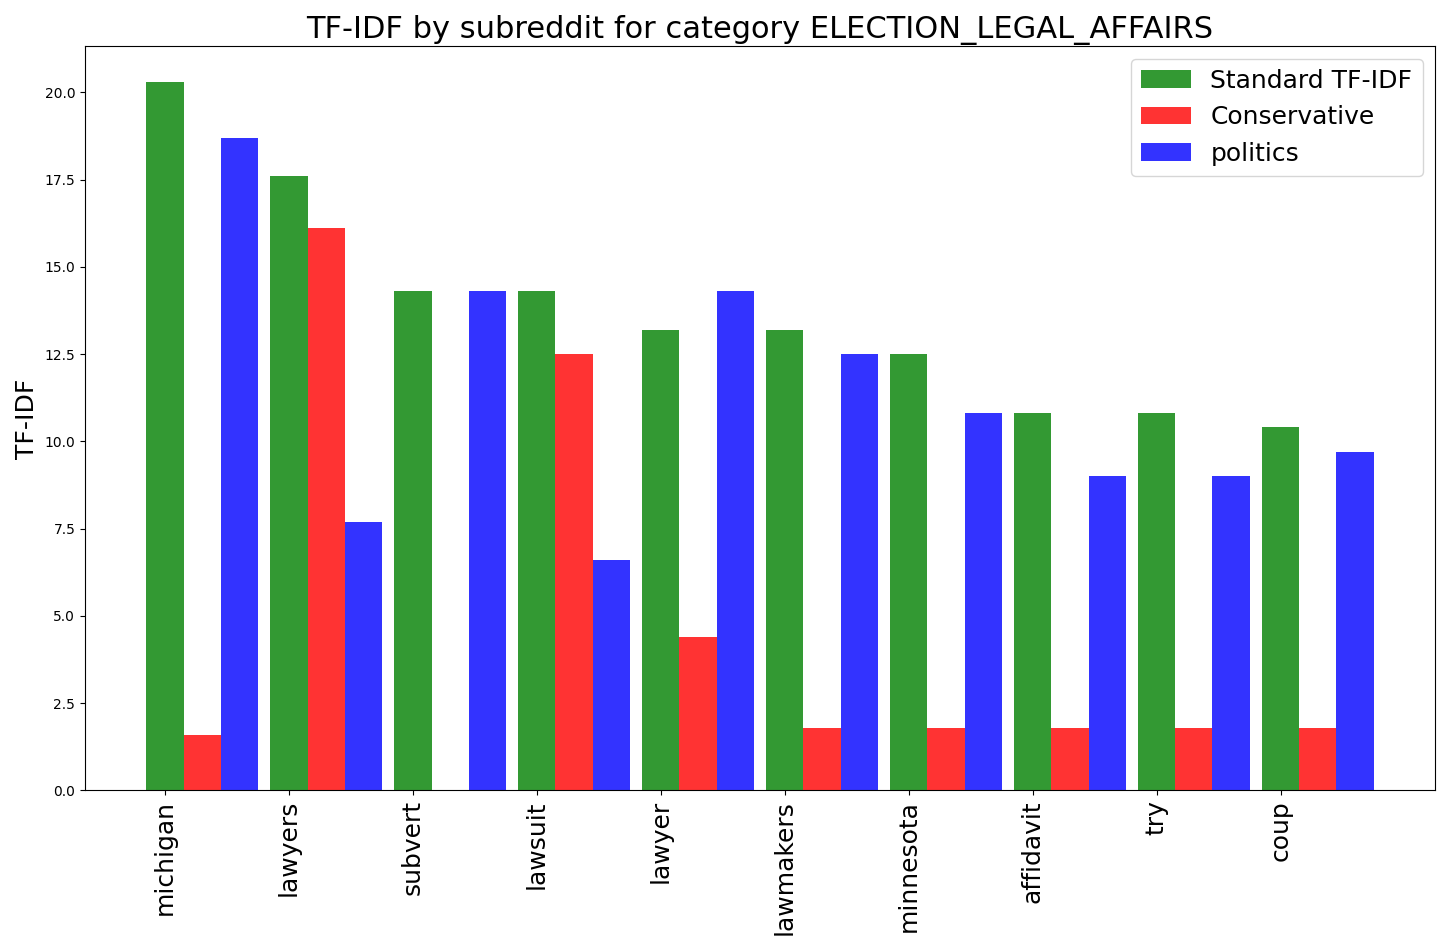
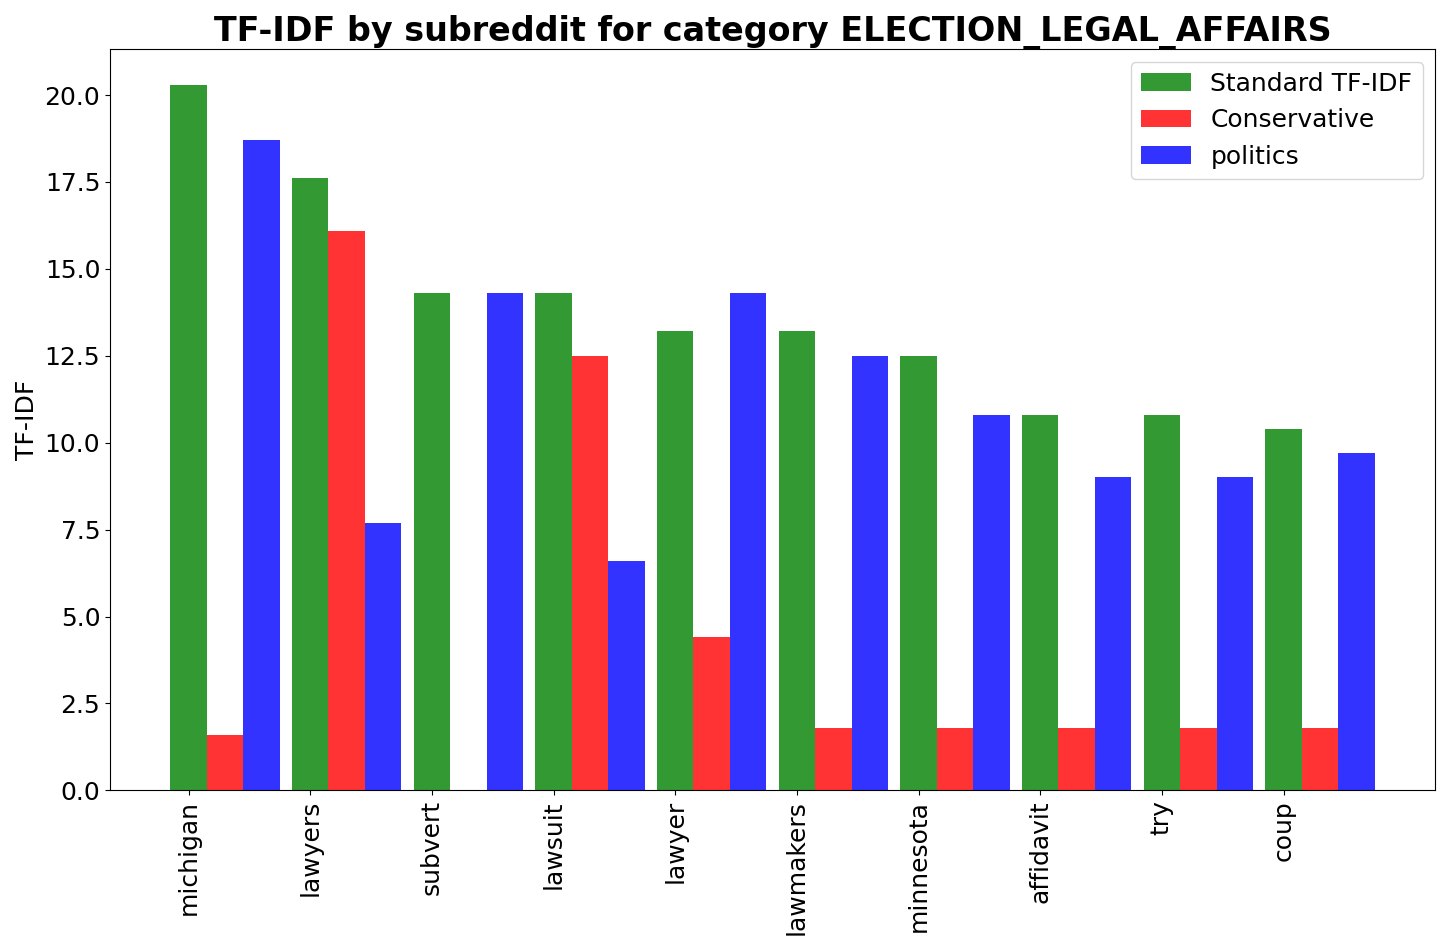
Adjusting y label font

diff --git a/scripts/compute_vectors_plot.py b/scripts/compute_vectors_plot.py
@@ -72,9 +72,11 @@ def plot_chart_by_category_candidates(category, std_tf_idf, trump, biden, words,
     ax.autoscale(enable=True, axis="both", tight=False)
 
     ax.set_ylabel('TF-IDF', fontsize=18)
-    ax.set_title(f'TF-IDF by {classifier} for category {category}', fontsize=22)
+    ax.set_title(f'TF-IDF by {classifier} for category {category}', fontsize=24, fontweight='bold')
     ax.set_xticks(r1)
     # ax.set_yticklabels(fontsize=18)
+    for item in ax.get_yticklabels():
+        item.set_fontsize(18)
     ax.set_xticklabels(words, Rotation=90, fontsize=18)
     ax.legend(fontsize=18)
 
